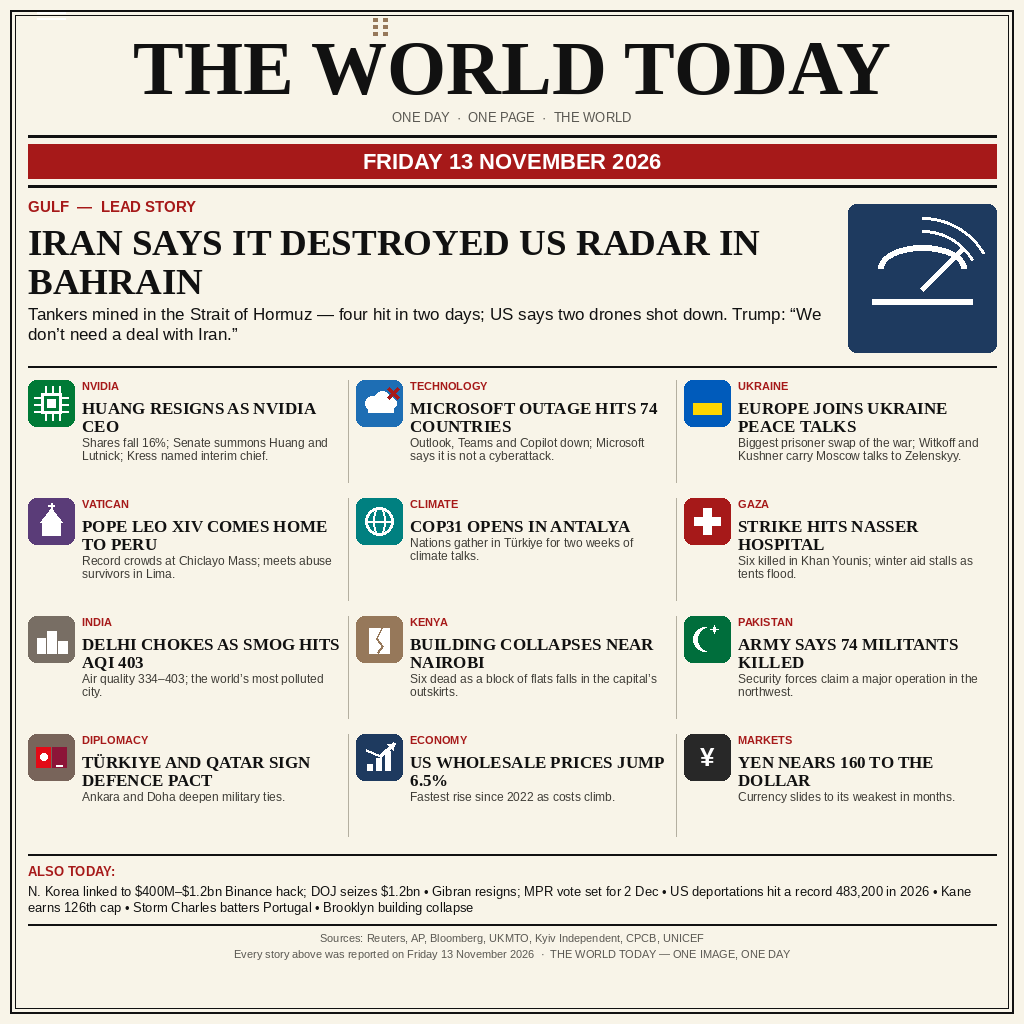
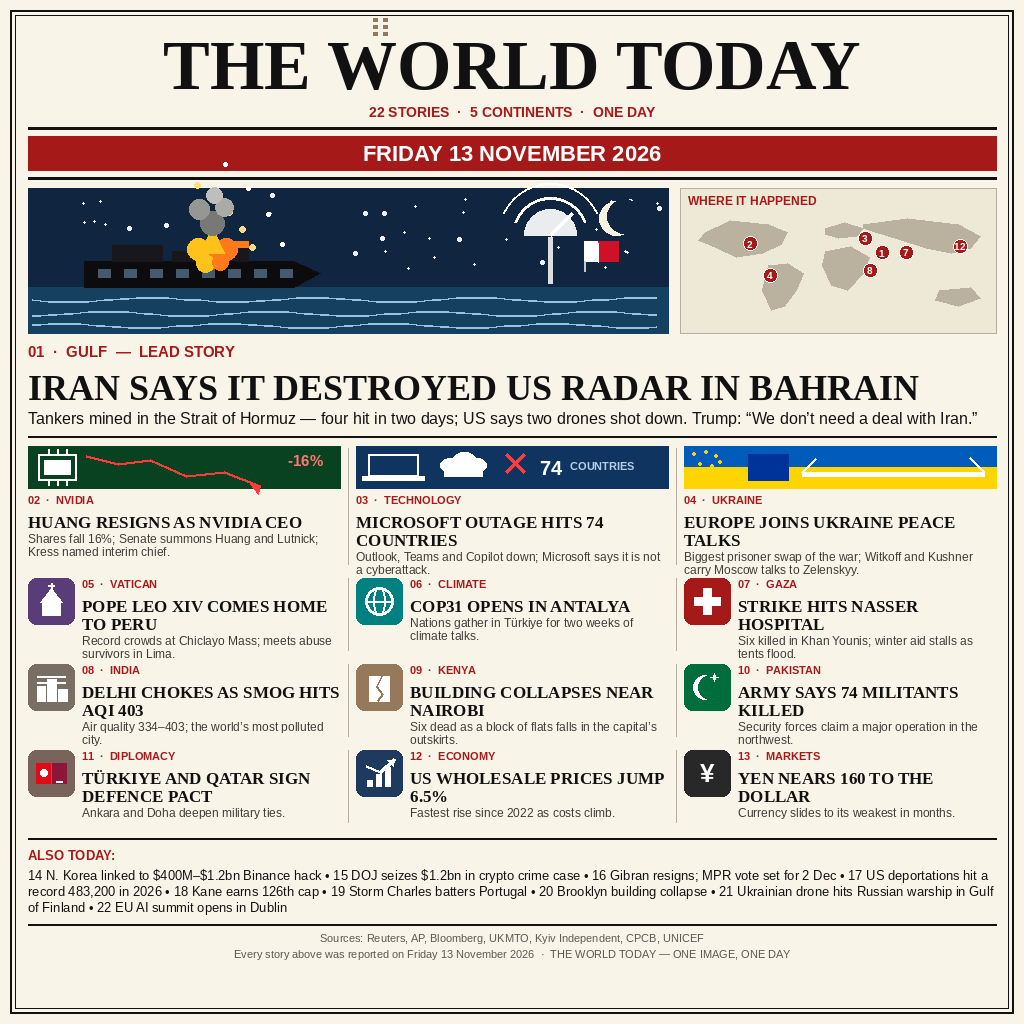
Resubmit news-image-01 round 2: night-scene lead, world map, 22 numbered stories

diff --git a/main.py b/main.py
@@ -1,11 +1,23 @@
-# news-image-01 entry (Python 3.13, standard library only): the image is the
-# entry.png beside this file, and the program copies it to /output/entry.png.
-# The gate takes a whole PNG of at most 1 MiB and 1024 by 1024 pixels, and the
-# judge sees exactly the bytes copied. Deterministic: the same bytes every run.
+"""Round 2 entry for make.fun news-image-01.
+
+Copies the rendered newspaper front page (entry.png) to /output/entry.png.
+Deterministic: the same bytes on every run, no network, no randomness.
+
+Round 2 redesign: a flat-vector night scene leads the page (burning tanker,
+radar dome, Bahrain flag), a "WHERE IT HAPPENED" world map pins the stories,
+and 22 numbered stories cover Friday 13 November 2026. The image is drawn
+by ../news-image-01-build/render.py (PIL, kept out of this repo) and copied
+here as entry.png; this program only copies it to the output path.
+"""
 import os
 import shutil
 
-_SRC = os.path.join(os.path.dirname(os.path.abspath(__file__)), "entry.png")
-_DST = os.path.join(os.environ.get("MAKEFUN_OUTPUT_DIR", "/output"), "entry.png")
-os.makedirs(os.path.dirname(_DST), exist_ok=True)
-shutil.copyfile(_SRC, _DST)
+
+def main():
+    os.makedirs("/output", exist_ok=True)
+    src = os.path.join(os.path.dirname(os.path.abspath(__file__)), "entry.png")
+    shutil.copy(src, "/output/entry.png")
+
+
+if __name__ == "__main__":
+    main()
